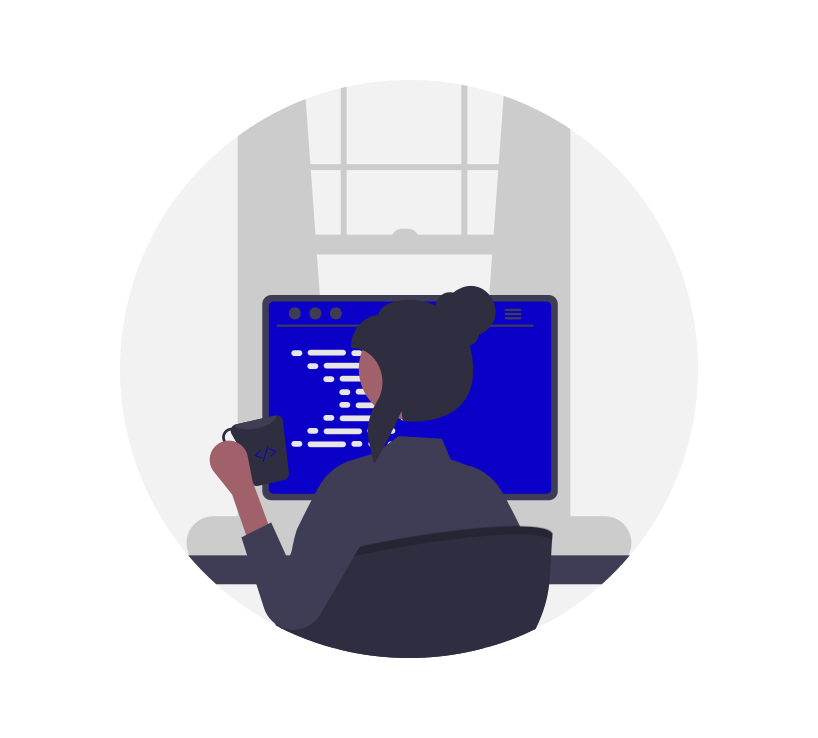
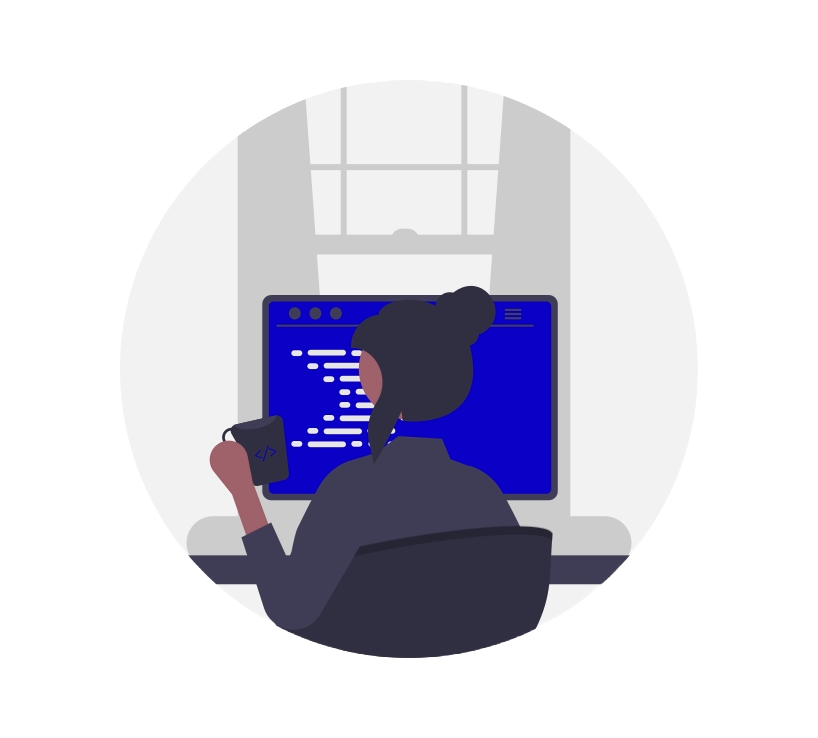
Termine el main por ahora

diff --git a/styless.css b/styless.css
@@ -50,6 +50,7 @@ body {
     border-color: black;
     border-width: 5px;
     height: 650px;
+    flex-direction: column;
 }
    
 .saludo {
@@ -86,3 +87,15 @@ font-size: 0.813rem;
         bottom: auto;
         border-style: none;
 }
+
+/* --------------HASTA AQUI NO LE PUSE IMAGEN AL MAIN------------------------- */
+.imagen {
+    display: flex;
+    justify-content: center;
+    align-items: center;
+}
+.imagen-uno {
+  height: 373px ;
+    }
+
+    /* --------------- FIN DEL MAIN--------------------------------- */

diff --git a/index.html b/index.html
@@ -47,7 +47,7 @@
                  <button class="btn-primero"> LO QUE HAGO</button>                    
              </div> 
                  <div class="imagen">
-                     <img class="imagen-uno" src="imagenes/undraw_Programmer_re_owql.png" alt  >
+                     <img class="imagen-uno" src="inicio-foto-bienvenida.png" alt  >
                  </div>
       </div>
        <!-- Final de Main -->
